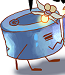
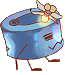
Implemented different tile types(wall, lit/dim light sources), made the player image have transparent background

diff --git a/core/src/edu/cornell/gdiac/rekindled/Board.java b/core/src/edu/cornell/gdiac/rekindled/Board.java
@@ -45,6 +45,10 @@ public class Board {
      * Therefore, we make this an inner class.
      */
     private static class TileState {
+        public boolean litLightSource;
+        public boolean dimLightSource;
+        public boolean wall;
+
         /** Is this a power tile? */
         public boolean power = false;
         /** Is this a goal tiles */
@@ -55,24 +59,46 @@ public class Board {
         public boolean falling = false;
         /** How far the tile has fallen */
         public float fallAmount = 0;
+
+        private void setWall(){
+            wall = true;
+            litLightSource = false;
+            dimLightSource = false;
+        }
+
+        private void setLitLightSource(){
+            wall = false;
+            litLightSource = true;
+            dimLightSource = false;
+        }
+
+        private void setDimLightSource(){
+            wall = false;
+            litLightSource = false;
+            dimLightSource = true;
+        }
     }
 
     // Constants
     /** Space to leave open between tiles */
     private static final float TILE_SPACE = 0;
     /** The dimensions of a single tile */
-    private static final int   TILE_WIDTH = 64; // MUST BE 2X VALUE IN GAMECANVAS
+    private static final int TILE_WIDTH = 64; // MUST BE 2X VALUE IN GAMECANVAS
 
     //images
     /** The file location of the light tile*/
     private static final String LIGHT_TILE = "images/LightTile.png";
     /** The file location of the dark tile*/
     private static final String DARK_TILE = "images/DarkTile.png";
+    /** The file location of the wall*/
+    private static final String WALL = "images/wall.png";
+    /** The file location of a lit light source*/
+    private static final String LIT_SOURCE = "images/litLightSource.png";
+    /** The file location of a dim light source*/
+    private static final String DIM_SOURCE = "images/dimLightSource.png";
 
 
 
-    /** Highlight color for power tiles */
-    private static final Color POWER_COLOR = new Color( 0.0f,  1.0f,  1.0f, 0.5f);
 
     // Instance attributes
     /** The board width (in number of tiles) */
@@ -85,10 +111,23 @@ public class Board {
     private Texture lightTile;
     /**the texture for the dark tile**/
     private Texture darkTile;
+    /**the texture for the wall**/
+    private Texture wallTexture;
+    /**texture region for dim light source*/;
+    private Texture dimLightSource;
+    /**texture region for lit light source*/;
+    private Texture litLightSource;
+
     /**texture region for lightTile*/;
     private TextureRegion lightRegion
     /**texture region for darkTile*/;
     private TextureRegion darkRegion;
+    /**texture region for lit source*/
+    private TextureRegion litSourceRegion;
+            /**texture region for dim source*/;
+    private TextureRegion dimSourceRegion;
+    /**texture region for wall*/
+    private TextureRegion wallRegion;
 
     /**
      * Creates a new board of the given size
@@ -96,17 +135,36 @@ public class Board {
      * @param width Board width in tiles
      * @param height Board height in tiles
      */
-    public Board(int width, int height) {
+    public Board(int width, int height, int[] walls, int[] litSources, int[] dimSources) {
         this.width = width;
         this.height = height;
         this.darkTile = new Texture(DARK_TILE);
         this.lightTile = new Texture(LIGHT_TILE);
+        this.wallTexture = new Texture(WALL);
+        this.dimLightSource = new Texture(DIM_SOURCE);
+        this.litLightSource = new Texture(LIT_SOURCE);
+
         this.darkRegion = new TextureRegion(darkTile, TILE_WIDTH, TILE_WIDTH);
         this.lightRegion = new TextureRegion(lightTile, TILE_WIDTH, TILE_WIDTH);
+        this.litSourceRegion = new TextureRegion(litLightSource, TILE_WIDTH, TILE_WIDTH);
+        this.dimSourceRegion = new TextureRegion(dimLightSource, TILE_WIDTH, TILE_WIDTH);
+        this.wallRegion = new TextureRegion(wallTexture, TILE_WIDTH, TILE_WIDTH);
+
+
         tiles = new TileState[width * height];
         for (int ii = 0; ii < tiles.length; ii++) {
             tiles[ii] = new TileState();
         }
+        for(int index: walls){
+            tiles[index].setWall();
+        }
+        for(int index: litSources){
+            tiles[index].setLitLightSource();
+        }
+        for(int index: dimSources){
+            tiles[index].setDimLightSource();
+        }
+
         resetTiles();
     }
 
@@ -282,7 +340,14 @@ public class Board {
         ///////////////////////////////////////////////////////
 
         // Draw
-        canvas.draw(darkRegion,  sx, sy);
+        if(tile.wall)
+            canvas.draw(wallRegion,  sx-(getTileSize()-getTileSpacing())/2, sy-(getTileSize()-getTileSpacing())/2);
+        else if(tile.litLightSource)
+            canvas.draw(litSourceRegion,  sx-(getTileSize()-getTileSpacing())/2, sy-(getTileSize()-getTileSpacing())/2);
+        else if(tile.dimLightSource)
+            canvas.draw(dimSourceRegion,  sx-(getTileSize()-getTileSpacing())/2, sy-(getTileSize()-getTileSpacing())/2);
+        else
+            canvas.draw(darkRegion,  sx-(getTileSize()-getTileSpacing())/2, sy-(getTileSize()-getTileSpacing())/2);
     }
 
     // METHODS FOR LAB 2

diff --git a/core/src/edu/cornell/gdiac/rekindled/GameplayController.java b/core/src/edu/cornell/gdiac/rekindled/GameplayController.java
@@ -131,6 +131,10 @@ public class GameplayController implements Screen {
 	/** Texture for beam */
 	private Texture playerTexture;
 
+	private int[] walls = {20, 21, 22, 23};
+	private int[] dimSources = {11, 73};
+	private int[] litSources = {50};
+
 
 	/**
 	 * Returns true if debug mode is active.
@@ -213,8 +217,8 @@ public class GameplayController implements Screen {
 	 * @param bounds	The game bounds in Box2d coordinates
 	 */
 	protected GameplayController(Rectangle bounds) {
-		board = new Board(BOARD_WIDTH, BOARD_HEIGHT);
-		player = new Player(board.boardToScreen(0), board.boardToScreen(0), 2);
+		board = new Board(BOARD_WIDTH, BOARD_HEIGHT, walls, litSources, dimSources);
+		player = new Player(board.boardToScreen(1), board.boardToScreen(1), 2);
 		assets = new Array<String>();
 		this.bounds = new Rectangle(bounds);
 		this.scale = new Vector2(1,1);
